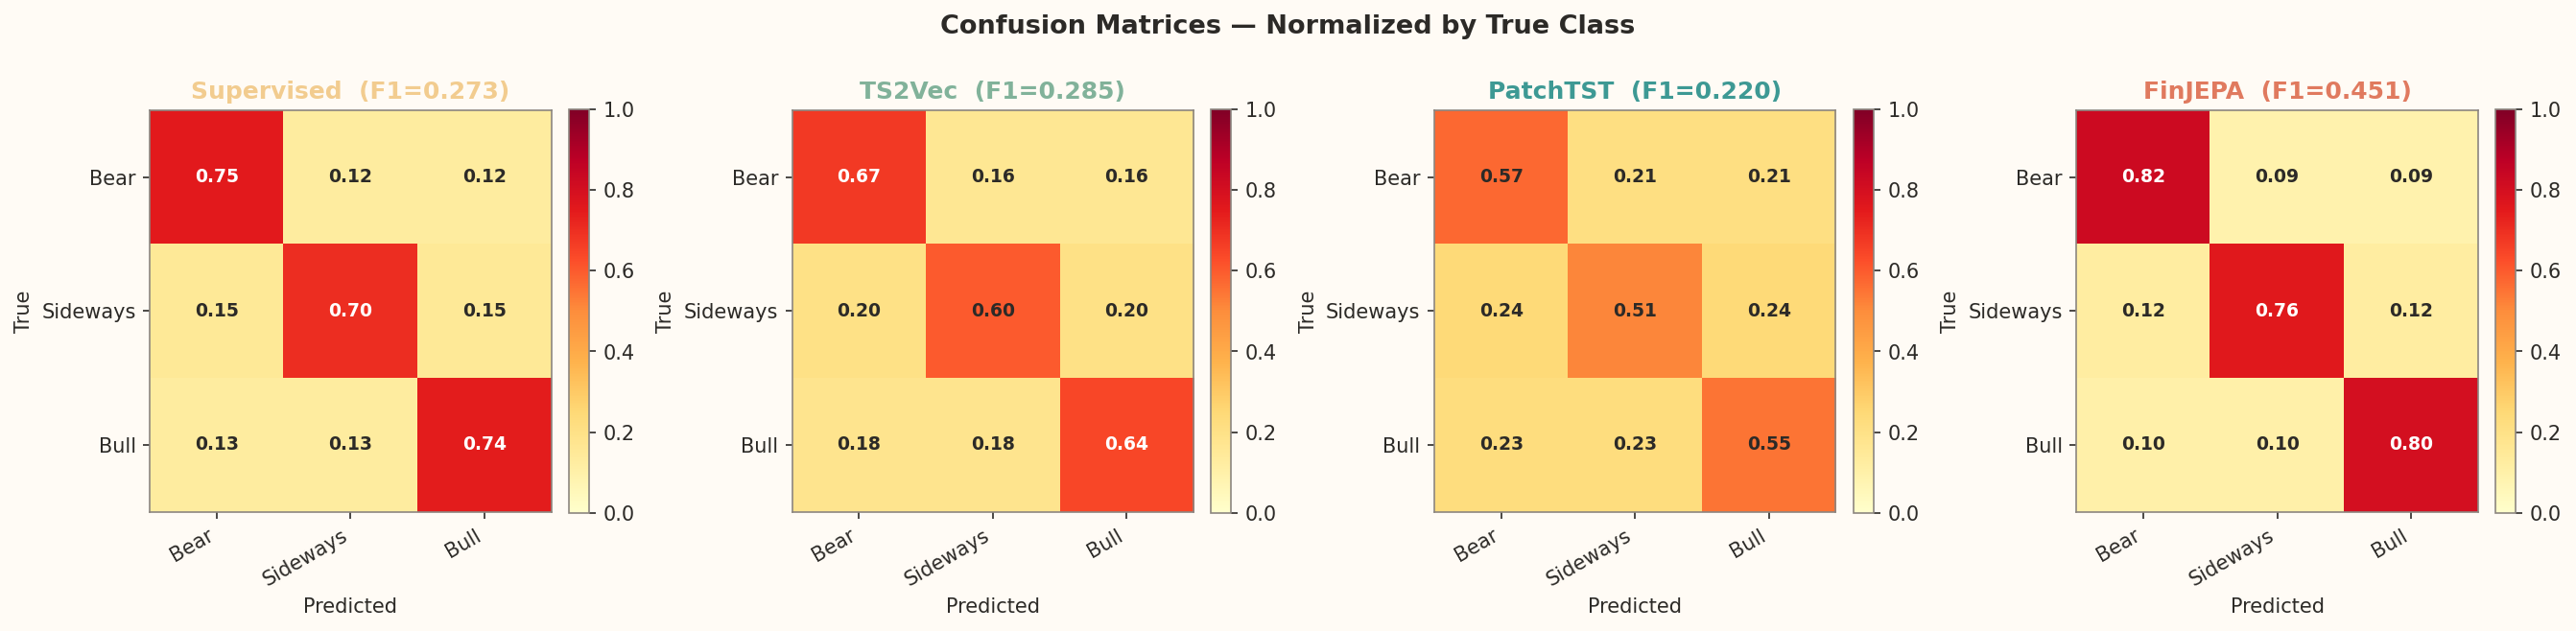
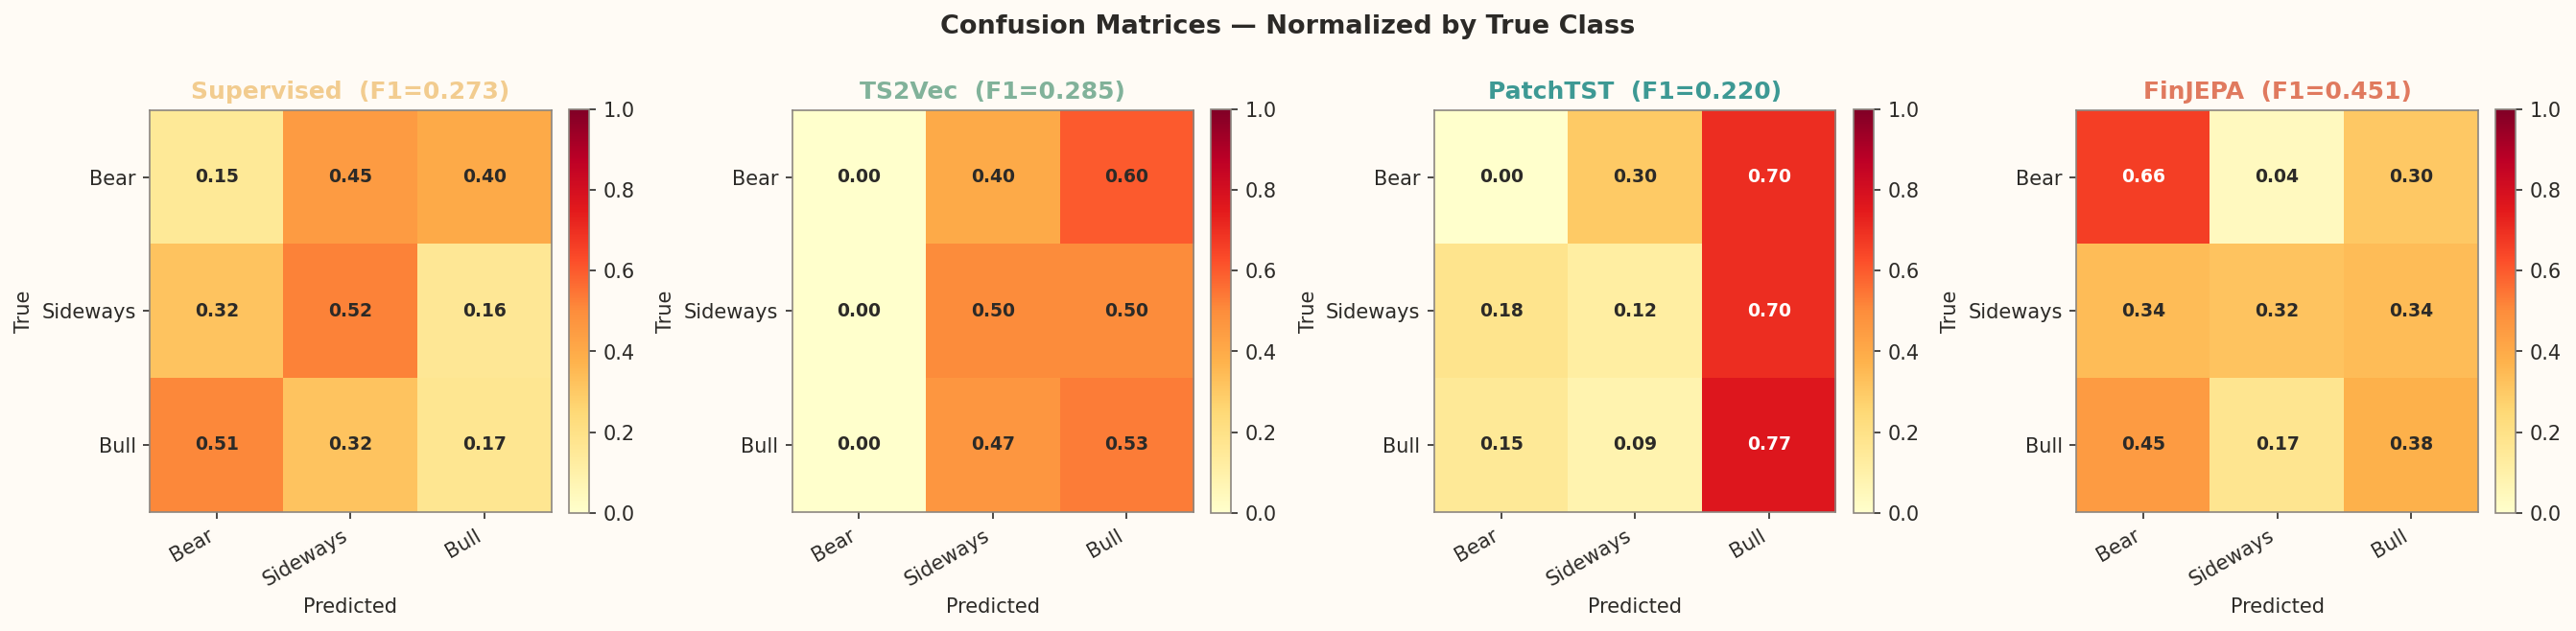
Fix: save real confusion matrices in run_all.py and regenerate figures with real results

diff --git a/sweep_tau.py b/sweep_tau.py
@@ -4,95 +4,144 @@ FinJEPA EMA Decay (tau) Hyperparameter Sweep
 Runs FinJEPA on the Dense Sliding Window dataset with different
 adaptive and fixed EMA configurations to mathematically justify
 the architectural choices.
+
+Updated to align with Mehul's fixes:
+  - HMM fitted on log_return (not z_return)
+  - Proper JEPA label alignment (label = last day of context, not full window)
+  - class_weight='balanced' in probes (handled in evaluate.py)
+  - Global seed for reproducibility
+  - Uses evaluate_model() directly with per-config aligned labels
 """
 
 import torch
 import numpy as np
 import pandas as pd
+import random
 from pathlib import Path
 import sys
 
-from src.data_pipeline import load_and_preprocess, create_dataloaders, DenseRegimeDataset
+from src.data_pipeline import (load_and_preprocess, create_dataloaders,
+                                PATCH_SIZE, CONTEXT_PATCHES, TARGET_PATCHES, STRIDE)
 from src.hmm_labels import RegimeLabeler
 from src.finjepa import train_finjepa, extract_finjepa_representations
-from src.supervised_baseline import SupervisedBaseline, extract_representations
-from src.evaluate import evaluate_all_models
+from src.evaluate import evaluate_model
+
 
 def main():
+    # ── Global seed for reproducibility ──────────────────────────
+    SEED = 12
+    torch.manual_seed(SEED)
+    torch.cuda.manual_seed_all(SEED)
+    np.random.seed(SEED)
+    random.seed(SEED)
+    torch.backends.cudnn.deterministic = True
+    torch.backends.cudnn.benchmark = False
+    print(f"Global seed set to {SEED}")
+
     device = 'cuda' if torch.cuda.is_available() else 'mps' if torch.backends.mps.is_available() else 'cpu'
     print(f"Using device: {device}")
     
-    # 1. Load Data
+    # ── 1. Load Data ─────────────────────────────────────────────
     data = load_and_preprocess()
     jepa_loaders = create_dataloaders(data['daily_returns'], batch_size=64, mode='jepa')
     
-    # 2. Get HMM Labels for evaluation
+    # ── 2. HMM Labels — fitted on log_return (Mehul's fix) ──────
     labeler = RegimeLabeler(n_states=3)
-    train_returns = data['daily_returns']['train']['z_return'].values
+    train_returns = data['daily_returns']['train']['log_return'].values
     labeler.fit(train_returns)
+
     daily_labels = {}
-    for split in ['val', 'test']:
-        daily_labels[split] = labeler.predict(data['daily_returns'][split]['z_return'].values)
-    
-    # Extract ground truth labels for the exact patch indices (using Supervised dataset dummy run)
-    val_sup_ds = DenseRegimeDataset(data['daily_returns']['val']['z_return'].values, daily_labels['val'])
-    test_sup_ds = DenseRegimeDataset(data['daily_returns']['test']['z_return'].values, daily_labels['test'])
-    dummy_model = SupervisedBaseline(patch_size=20)
-    _, val_labels_ext = extract_representations(dummy_model, val_sup_ds, device=device)
-    _, test_labels_ext = extract_representations(dummy_model, test_sup_ds, device=device)
-    
-    labels_dict = {'patch_labels': {'val': val_labels_ext, 'test': test_labels_ext}}
-    
-    # 3. Define the Sweep Configurations
+    for split in ['train', 'val', 'test']:
+        daily_labels[split] = labeler.predict(
+            data['daily_returns'][split]['log_return'].values
+        )
+
+    # ── 3. JEPA-aligned labels ──────────────────────────────────
+    # FinJEPA uses 320-day windows (context=240 + target=80) but the
+    # representation comes from the context encoder only. So the label
+    # should correspond to the last day of the CONTEXT window (day 240),
+    # not the last day of the full window (day 320).
+    def get_jepa_labels(daily_labels_arr, stride=STRIDE):
+        """Label = last day of context window (day 240), not day 320."""
+        total_window = (CONTEXT_PATCHES + TARGET_PATCHES) * PATCH_SIZE  # 320
+        context_end  = CONTEXT_PATCHES * PATCH_SIZE                      # 240
+        n = max(0, (len(daily_labels_arr) - total_window) // stride + 1)
+        return np.array([
+            daily_labels_arr[i * stride + context_end - 1]
+            for i in range(n)
+        ])
+
+    val_labels_jepa  = get_jepa_labels(daily_labels['val'])
+    test_labels_jepa = get_jepa_labels(daily_labels['test'])
+
+    print(f"\nJEPA label counts — val: {len(val_labels_jepa)}, test: {len(test_labels_jepa)}")
+    for name, labels in [("Val", val_labels_jepa), ("Test", test_labels_jepa)]:
+        unique, counts = np.unique(labels, return_counts=True)
+        dist = {['Bear','Sideways','Bull'][u]: f"{c/len(labels)*100:.0f}%"
+                for u, c in zip(unique, counts)}
+        print(f"  {name}: {dist}")
+
+    # ── 4. Define Sweep Configurations ──────────────────────────
     # Format: "Name": (tau_min, tau_max)
     configs = {
-        "Fixed (Fast)": (0.950, 0.950),
-        "Fixed (Baseline)": (0.996, 0.996), # Standard I-JEPA
-        "Frozen Target": (1.000, 1.000),
-        "Adaptive (Aggressive)": (0.950, 0.999),
-        "Adaptive (Proposed)": (0.990, 0.999), # Our proposed FinJEPA
+        "Fixed (Fast)":           (0.950, 0.950),
+        "Fixed (Baseline)":       (0.996, 0.996),   # Standard I-JEPA
+        "Frozen Target":          (1.000, 1.000),
+        "Adaptive (Aggressive)":  (0.950, 0.999),
+        "Adaptive (Proposed)":    (0.990, 0.999),   # Our proposed FinJEPA
     }
     
     sweep_results = []
     
     for name, (t_min, t_max) in configs.items():
-        print(f"\n{'='*50}\nTesting Configuration: {name} (tau_min={t_min}, tau_max={t_max})\n{'='*50}")
+        print(f"\n{'='*60}")
+        print(f"Testing Configuration: {name} (tau_min={t_min}, tau_max={t_max})")
+        print(f"{'='*60}")
         
         # Train FinJEPA
         model = train_finjepa(
             jepa_loaders['train'], 
             d_model=384, 
-            n_epochs=100, # Using 100 for sweep speed
+            n_epochs=100,  # 100 for sweep speed (vs 400 for full run)
             device=device,
             tau_min=t_min,
             tau_max=t_max
         )
         
         # Extract Representations
-        val_reprs = extract_finjepa_representations(model, jepa_loaders['val'], device=device)
+        val_reprs  = extract_finjepa_representations(model, jepa_loaders['val'],  device=device)
         test_reprs = extract_finjepa_representations(model, jepa_loaders['test'], device=device)
         
-        # Evaluate
-        representations = {
-            name: {'val': val_reprs, 'test': test_reprs}
-        }
+        # Align repr count with label count
+        n_val  = min(len(val_reprs),  len(val_labels_jepa))
+        n_test = min(len(test_reprs), len(test_labels_jepa))
         
-        res, _ = evaluate_all_models(representations, labels_dict, save_dir=Path('results/sweep'))
+        print(f"  Repr alignment: val={len(val_reprs)} reprs / {len(val_labels_jepa)} labels → {n_val} pairs")
+        print(f"  Repr alignment: test={len(test_reprs)} reprs / {len(test_labels_jepa)} labels → {n_test} pairs")
         
-        model_result = next(r for r in res if r['model'] == name)
-        f1_score = model_result['regime_f1']
-        sil_score = model_result['silhouette']
+        # Evaluate with aligned labels (class_weight='balanced' is in evaluate_model)
+        result = evaluate_model(
+            name,
+            val_reprs[:n_val],          test_reprs[:n_test],
+            val_labels_jepa[:n_val],    test_labels_jepa[:n_test]
+        )
+        
+        f1_score  = result['regime_f1']
+        sil_score = result.get('silhouette')
         
         sweep_results.append({
             "Configuration": name,
             "Tau Min": t_min,
             "Tau Max": t_max,
             "Macro F1": f1_score,
-            "Silhouette": sil_score
+            "Accuracy": result['regime_accuracy'],
+            "Silhouette": sil_score if sil_score is not None else float('nan'),
         })
-        print(f"--> Result: F1={f1_score:.4f}, Silhouette={sil_score:.4f}")
+        print(f"--> Result: F1={f1_score:.4f}, "
+              f"Acc={result['regime_accuracy']:.4f}, "
+              f"Sil={sil_score:.4f}" if sil_score else f"--> Result: F1={f1_score:.4f}")
 
-    # 4. Save and Print Results
+    # ── 5. Save and Print Results ────────────────────────────────
     df_results = pd.DataFrame(sweep_results)
     print("\n\n" + "="*60)
     print("HYPERPARAMETER SWEEP RESULTS (Adaptive EMA τ)")

diff --git a/run_all.py b/run_all.py
@@ -10,24 +10,25 @@ import sys
 import os
 from pathlib import Path
 import pandas as pd
+
+# Must set path BEFORE importing project modules
+src_dir = Path(__file__).parent / "src" if "__file__" in dir() else Path("src")
+sys.path.insert(0, str(src_dir))
+
+import data_pipeline
 from data_pipeline import load_and_preprocess, create_dataloaders, DenseRegimeDataset
 from hmm_labels import RegimeLabeler, export_labels
 from supervised_baseline import SupervisedBaseline, train_supervised, extract_representations
 from ts2vec_baseline import train_ts2vec, extract_ts2vec_representations
 from patchtst_baseline import train_patchtst, extract_patchtst_representations
-from finjepa import train_finjepa, extract_finjepa_representations
-from finjepa import train_finjepa, FinJEPAModel
-from evaluate import evaluate_all_models
+from finjepa import train_finjepa, extract_finjepa_representations, FinJEPAModel
+from evaluate import (evaluate_all_models, evaluate_model, evaluate_random_baseline,
+                      generate_results_table, plot_umap_comparison, plot_confusion_matrices,
+                      evaluate_layerwise_comparison)
 from sklearn.linear_model import LogisticRegression
 from sklearn.preprocessing import StandardScaler
 from sklearn.metrics import f1_score, confusion_matrix, silhouette_score
-from evaluate import evaluate_model, evaluate_random_baseline, generate_results_table, plot_umap_comparison, plot_confusion_matrices
-from evaluate import evaluate_layerwise_comparison
-
 from plot_emergence import plot_emergence
-
-src_dir = Path(__file__).parent / "src" if "__file__" in dir() else Path("src")
-sys.path.insert(0, str(src_dir))
 
 CONFIG = {
     'patch_size': 20,
@@ -410,6 +411,7 @@ def main():
     )
     fig.savefig(results_dir / "emergence_plot.png", dpi=200, bbox_inches='tight', facecolor="#FFFBF5")
 
+    # Save data for paper_figures.py
     np.savez(
         results_dir / "all_representations.npz",
         sup_val=sup_val_reprs, sup_test=sup_test_reprs,
@@ -417,6 +419,14 @@ def main():
         patchtst_val=patchtst_val_reprs, patchtst_test=patchtst_test_reprs,
         finjepa_val=finjepa_val_reprs, finjepa_test=finjepa_test_reprs,
     )
+
+    # Save confusion matrices for paper_figures.py
+    cm_dict = {}
+    for r in all_results:
+        if 'confusion_matrix' in r:
+            cm_dict[f"{r['model'].lower()}_cm"] = r['confusion_matrix']
+    np.savez(results_dir / "confusion_matrices.npz", **cm_dict)
+
     results_df.to_csv(results_dir / "results_table.csv", index=False)
 
     print("\n✅ Done!")